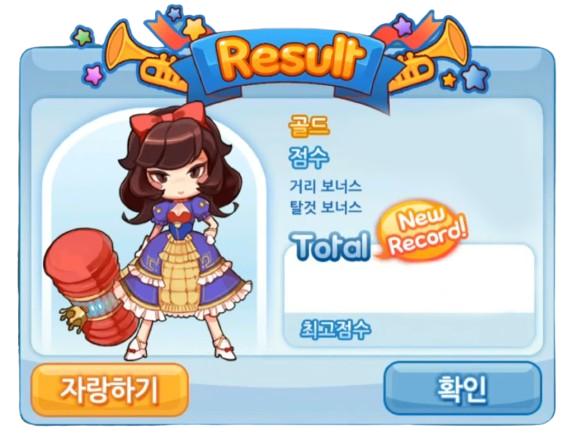
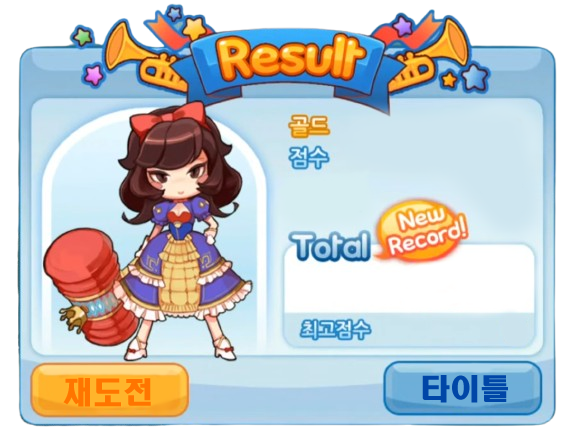
스코어 골드랑 달린 거리 분리

Changed region(s): [[0.0887, 0.8387, 0.2957, 0.9585], [0.7096, 0.8387, 0.887, 0.9585], [0.5026, 0.3894, 0.6504, 0.5092]]

diff --git a/floor.py b/floor.py
@@ -20,50 +20,51 @@ class Floor:
         self.image = load_image('grass.png')
 
     def update(self):
-        if play_mode.princess.action >= 5:
-            self.x += 2 * RUN_SPEED_PPS * game_framework.frame_time
-            play_mode.score += RUN_SPEED_PPS * game_framework.frame_time / 100
-            if play_mode.quest.type == 4:
-                play_mode.quest.num += 2 * RUN_SPEED_PPS * game_framework.frame_time / 200
+        if play_mode.princess.stop:
+            pass
         else:
-            self.x += RUN_SPEED_PPS * game_framework.frame_time
-            play_mode.score += RUN_SPEED_PPS * game_framework.frame_time / 200
-            if play_mode.quest.type == 4:
-                play_mode.quest.num += RUN_SPEED_PPS * game_framework.frame_time / 200
+            if play_mode.princess.action >= 5:
+                self.x += 2 * RUN_SPEED_PPS * game_framework.frame_time
+                if play_mode.quest.type == 4:
+                    play_mode.quest.num += 2 * RUN_SPEED_PPS * game_framework.frame_time / 200
+            else:
+                self.x += RUN_SPEED_PPS * game_framework.frame_time
+                if play_mode.quest.type == 4:
+                    play_mode.quest.num += RUN_SPEED_PPS * game_framework.frame_time / 200
 
-        if self.x > self.size + 2000:
-            game_world.remove_object(self)
+            if self.x > self.size + 2000:
+                game_world.remove_object(self)
 
-        if 0 <= self.x - self.size <= RUN_SPEED_PPS * game_framework.frame_time and play_mode.princess.action < 5:
-            if play_mode.fever_time == True:
+            if 0 <= self.x - self.size <= RUN_SPEED_PPS * game_framework.frame_time and play_mode.princess.action < 5:
+                if play_mode.fever_time == True:
+                    floor = Floor(self.x - self.size, 1200, 0)
+                    game_world.add_collision_pair('princess:floor', None, floor)
+                    game_world.add_collision_pair('mob:floor', None, floor)
+                    game_world.add_object(floor, 1)
+                else:
+                    now_size = random.randint(100, 1200)
+                    now_hole = random.randint(0, 800)
+                    floor = Floor(self.x - self.size, now_size, now_hole)
+                    game_world.add_collision_pair('princess:floor', None, floor)
+                    game_world.add_collision_pair('mob:floor', None, floor)
+                    game_world.add_object(floor, 1)
+                    if play_mode.fever_time == False and (500 <= now_size or now_hole == 0):
+                        mob = Mob(random.randint(self.size + now_hole + 2000 - int(self.x), self.size + now_hole + now_size + 2000 - int(self.x)))
+                        game_world.add_object(mob, 2)
+                        game_world.add_collision_pair('princess:mob', None, mob)
+                        game_world.add_collision_pair('mob:effect', mob, None)
+                        game_world.add_collision_pair('mob:floor', mob, None)
+                    if play_mode.fever_time == False and (800 <= now_size or now_hole == 0):
+                        mob = Mob(random.randint(self.size + now_hole + 2000 - int(self.x), self.size + now_hole + now_size + 2000 - int(self.x)))
+                        game_world.add_object(mob, 2)
+                        game_world.add_collision_pair('princess:mob', None, mob)
+                        game_world.add_collision_pair('mob:effect', mob, None)
+                        game_world.add_collision_pair('mob:floor', mob, None)
+            elif 0 <= self.x - self.size <= 2 * RUN_SPEED_PPS * game_framework.frame_time and play_mode.princess.action >= 5:
                 floor = Floor(self.x - self.size, 1200, 0)
                 game_world.add_collision_pair('princess:floor', None, floor)
                 game_world.add_collision_pair('mob:floor', None, floor)
                 game_world.add_object(floor, 1)
-            else:
-                now_size = random.randint(100, 1200)
-                now_hole = random.randint(0, 800)
-                floor = Floor(self.x - self.size, now_size, now_hole)
-                game_world.add_collision_pair('princess:floor', None, floor)
-                game_world.add_collision_pair('mob:floor', None, floor)
-                game_world.add_object(floor, 1)
-                if play_mode.fever_time == False and (500 <= now_size or now_hole == 0):
-                    mob = Mob(random.randint(self.size + now_hole + 2000 - int(self.x), self.size + now_hole + now_size + 2000 - int(self.x)))
-                    game_world.add_object(mob, 2)
-                    game_world.add_collision_pair('princess:mob', None, mob)
-                    game_world.add_collision_pair('mob:effect', mob, None)
-                    game_world.add_collision_pair('mob:floor', mob, None)
-                if play_mode.fever_time == False and (800 <= now_size or now_hole == 0):
-                    mob = Mob(random.randint(self.size + now_hole + 2000 - int(self.x), self.size + now_hole + now_size + 2000 - int(self.x)))
-                    game_world.add_object(mob, 2)
-                    game_world.add_collision_pair('princess:mob', None, mob)
-                    game_world.add_collision_pair('mob:effect', mob, None)
-                    game_world.add_collision_pair('mob:floor', mob, None)
-        elif 0 <= self.x - self.size <= 2 * RUN_SPEED_PPS * game_framework.frame_time and play_mode.princess.action >= 5:
-            floor = Floor(self.x - self.size, 1200, 0)
-            game_world.add_collision_pair('princess:floor', None, floor)
-            game_world.add_collision_pair('mob:floor', None, floor)
-            game_world.add_object(floor, 1)
 
     def get_bb(self):
         return 2000 - int(self.x), 40, self.size + 2000 - int(self.x), 85

diff --git a/quest.py b/quest.py
@@ -11,6 +11,7 @@ class Quest:
     def __init__(self):
         self.font = load_font('packdahyun.ttf', 40)
         self.image = load_image('quest_image.png')
+        self.coin_image = load_image('coin.png')
         self.num = 0
         self.type = random.randint(1,5)
         if self.type == 0:
@@ -39,7 +40,10 @@ class Quest:
         if self.type > 0:
             self.image.clip_draw(0,0,813,184, 600, 10, 400, 50)
             self.font.draw(550, 10, self.quest_story + f' : {int(self.num)}', (5, 5, 5))
-        self.font.draw(480, 550, f'score {int(play_mode.score)}', (0, 0, 0))
+        self.font.draw(480, 550, f'score {play_mode.score}', (0, 0, 0))
+        self.font.draw(1000, 500, f'거리 {int(play_mode.distance)}', (0, 0, 0))
+        self.coin_image.clip_draw(25, 0, 25, 25, 1020, 450)
+        self.font.draw(1050, 450, f'{play_mode.gold}', (0, 0, 0))
 
     def update(self):
         if self.goalNum <= self.num and self.type!=0:

diff --git a/back_ground.py b/back_ground.py
@@ -23,12 +23,17 @@ class Background:
         Background.sound.repeat_play()
 
     def update(self):
-        if play_mode.princess.action >= 5:
-            self.x += 2 * RUN_SPEED_PPS * game_framework.frame_time
+        if play_mode.princess.stop:
+            pass
         else:
-            self.x += RUN_SPEED_PPS * game_framework.frame_time
-        if self.x >= 2000:
-            self.x = 0
+            if play_mode.princess.action >= 5:
+                self.x += 2 * RUN_SPEED_PPS * game_framework.frame_time
+                play_mode.distance += 2 * RUN_SPEED_PPS * game_framework.frame_time
+            else:
+                self.x += RUN_SPEED_PPS * game_framework.frame_time
+                play_mode.distance += RUN_SPEED_PPS * game_framework.frame_time
+            if self.x >= 2000:
+                self.x = 0
 
     def draw(self):
         if self.x > 800:

diff --git a/gold.py b/gold.py
@@ -2,6 +2,7 @@ from pico2d import*
 
 import game_framework
 import game_world
+import play_mode
 
 # princess Run Speed
 PIXEL_PER_METER = (35.0 / 0.2)  # 10 pixel 10 cm
@@ -26,7 +27,8 @@ class Gold:
 
     def update(self):
         self.frame = (self.frame + 1) % 4
-        self.x -= RUN_SPEED_PPS * game_framework.frame_time
+        if play_mode.princess.stop == False:
+            self.x -= RUN_SPEED_PPS * game_framework.frame_time
 
     def get_bb(self):
         return self.x - 25, self.y - 25, self.x + 25, self.y + 25

diff --git a/game_over.py b/game_over.py
@@ -10,7 +10,9 @@ class Score:
 
     def draw(self):
         self.image.draw(600, 300)
-        self.font.draw(640, 230, f'{int(play_mode.score)}',(0,0,5))
+        self.font.draw(700, 390, f'{play_mode.gold}',(200,180,50))
+        self.font.draw(700, 360, f'{int(play_mode.distance)}',(120,180,255))
+        self.font.draw(640, 230, f'{int(play_mode.distance) + play_mode.score * 10 + play_mode.gold}',(120,180,255))
 
     def update(self):
         pass

diff --git a/mob.py b/mob.py
@@ -267,5 +267,6 @@ class Mob:
             game_world.remove_collision_object(self)
             game_world.add_collision_pair('mob:floor', self, None)
             self.state_machine.add_event(('HIT', 0))
+            play_mode.score += 1
         if group == 'mob:floor':
             self.fall = False

diff --git a/play_mode.py b/play_mode.py
@@ -29,10 +29,15 @@ def init():
     global floor
     global fever_time
     global score
+    global gold
+    global distance
     global quest
 
     fever_time = False
     score = 0
+    distance = 0
+    gold = 0
+
 
     quest = Quest()
     game_world.add_object(quest, 3)

diff --git a/prince.py b/prince.py
@@ -105,4 +105,4 @@ class Prince:
             Prince.hit_sound.play()
             self.x += 20
             self.y += 20
-            play_mode.score += 25
+            play_mode.score += 5
